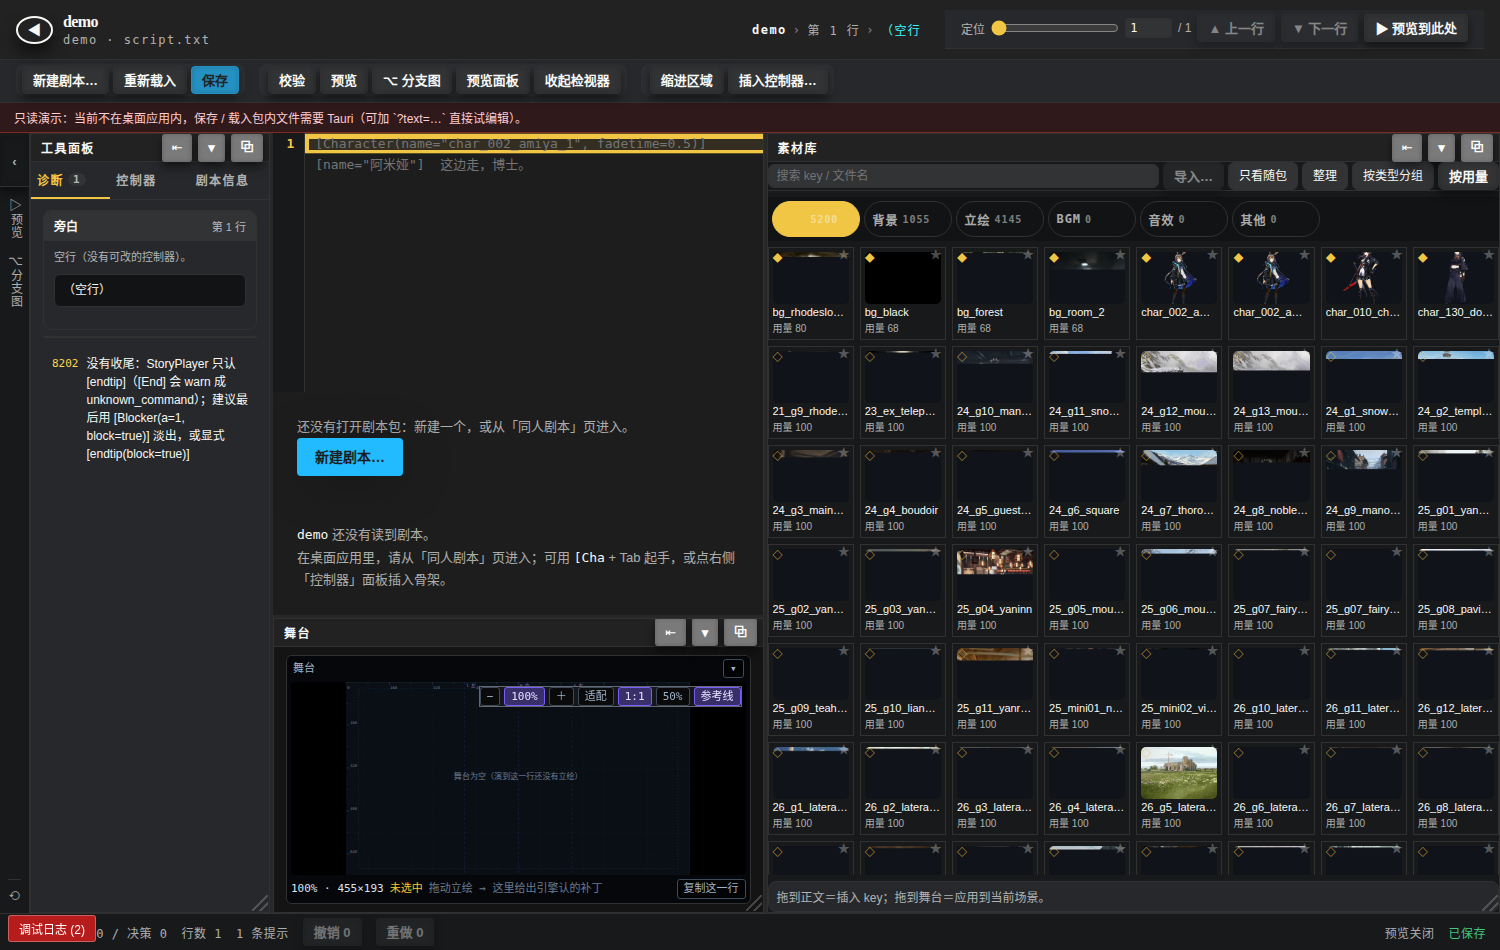
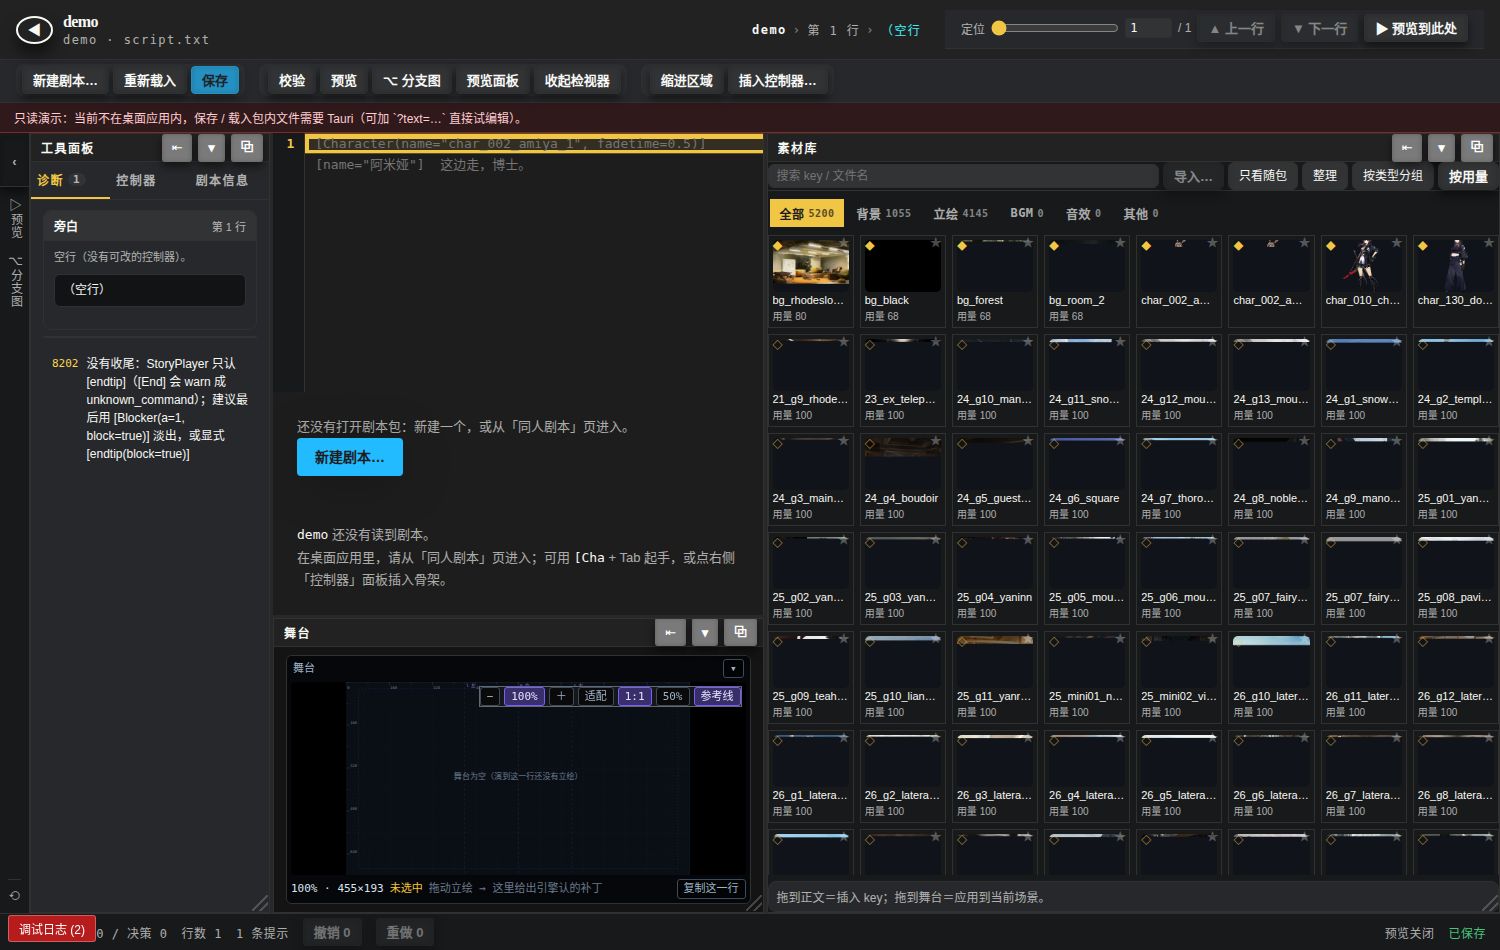
fix(ui): home display type + ak-segmented on the asset kind bar
- Home title uses ak-ui's display role (clamped, because the raw
  `--ak-type-display-size` reaches 4.5rem at desktop widths and drowned the
  page); tagline takes the mono/uppercase meta role.
- The asset-library kind bar is `ak-segmented` in the DOM; the legacy
  999px-pill styling is overridden to ak-ui's flat items so the active chip
  reads as ak-ui's inverted selection instead of a gold capsule.

35/35 harnesses green again (editor group 10/10 after refreshing shots).

Changed region(s): [[0.4907, 0.2137, 1.0, 0.7021], [0.4907, 0.7326, 1.0, 0.9158]]

diff --git a/frontend/src/styles/theme-arknights.pages.css b/frontend/src/styles/theme-arknights.pages.css
@@ -54,6 +54,34 @@
   padding-left: var(--ak-space-2);
 }
 
+/* 首页：`--ak-type-display-size`（clamp 2.25→4.5rem）**要夹住**（clamp 在
+ *  1500px 视口上会顶到 4.5rem=72px，比原 32px 大一倍多，首页会被标题压满）。
+ *  展示字角色本来就是给"主操作标题"的（ak-ui `--ak-type-display-size`）。 */
+.home-page {
+  background:
+    radial-gradient(120% 80% at 50% -10%, color-mix(in srgb, var(--ak-color-blue) 8%, transparent), transparent 60%),
+    var(--ak-surface-canvas);
+}
+.home-title {
+  font-family: var(--ak-font-serif);
+  font-weight: 900;
+  font-size: clamp(2rem, 4.2vw, 3rem);
+  line-height: 1.08;
+  letter-spacing: var(--ak-type-tight);
+  color: var(--ak-text-primary);
+}
+.home-tagline {
+  font-family: var(--ak-font-mono);
+  font-size: var(--ak-type-label-size);
+  font-weight: 800;
+  letter-spacing: var(--ak-type-wide);
+  text-transform: uppercase;
+  color: var(--ak-text-secondary);
+}
+.home-logo {
+  filter: drop-shadow(0 0.4rem 1.2rem rgba(0, 0, 0, 0.6));
+}
+
 /* 元信息（计数 / 版本 / 时间戳…）：等宽、大写、加字距 —— ak-ui 的元信息角色。 */
 .shelf-count,
 .fl-count,

diff --git a/frontend/src/styles/theme-arknights.editor.css b/frontend/src/styles/theme-arknights.editor.css
@@ -274,3 +274,32 @@
     transition-duration: 1ms;
   }
 }
+
+/* ── 7b. 素材库类型栏 = ak-ui `.ak-segmented`（JSX 里就是这个类）。
+      `browser.css` 的 `.ed-assets-kind` 是 999px 胶囊 + 金色描边，会和
+      `.ak-segmented__item` 打架 → 这里按 ak-ui 的口径收正（0 圆角、选中反白）。 */
+
+.ak-segmented.ed-assets-kinds {
+  gap: 2px;
+  padding: 2px;
+  background: var(--ak-surface-inverse);
+}
+.ak-segmented.ed-assets-kinds .ak-segmented__item {
+  min-width: 0;
+  min-height: var(--ak-ctrl-h-sm);
+  padding: 0 10px;
+  border: 0;
+  border-radius: 0;
+  font-family: var(--ak-font-mono);
+  font-size: var(--ak-type-label-size);
+  font-weight: 800;
+  letter-spacing: 0.04em;
+}
+.ak-segmented.ed-assets-kinds .ak-segmented__item[aria-pressed="true"] {
+  background: var(--ak-segmented-signal);
+  color: var(--ak-text-inverse);
+}
+.ak-segmented.ed-assets-kinds .ak-segmented__item small {
+  color: inherit;
+  opacity: 0.72;
+}
